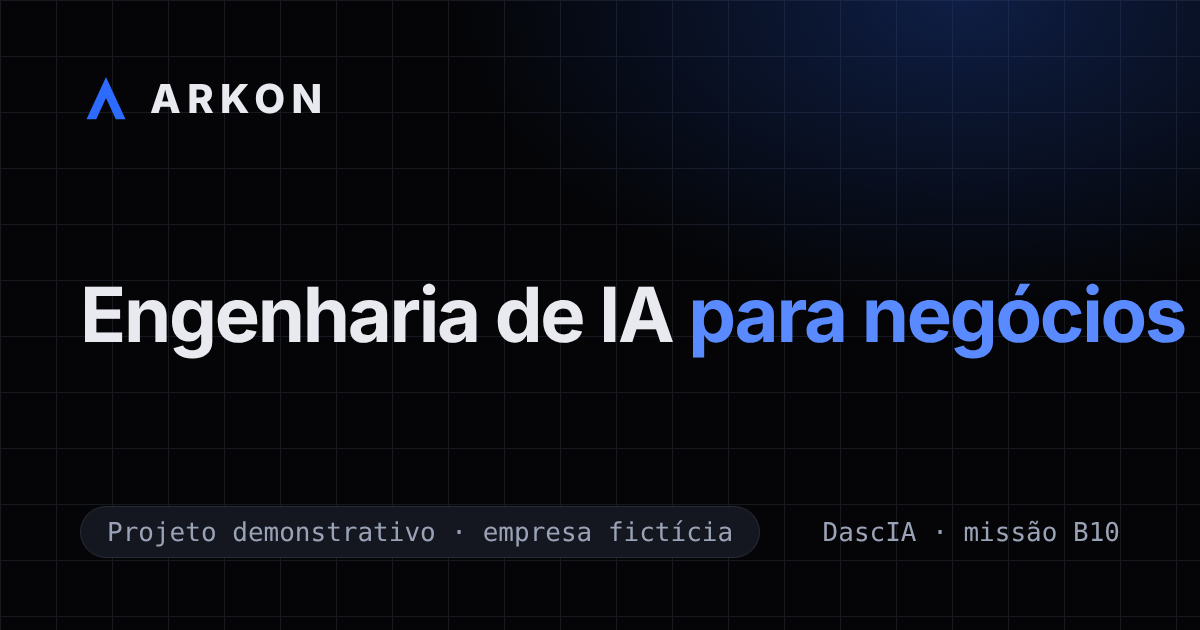
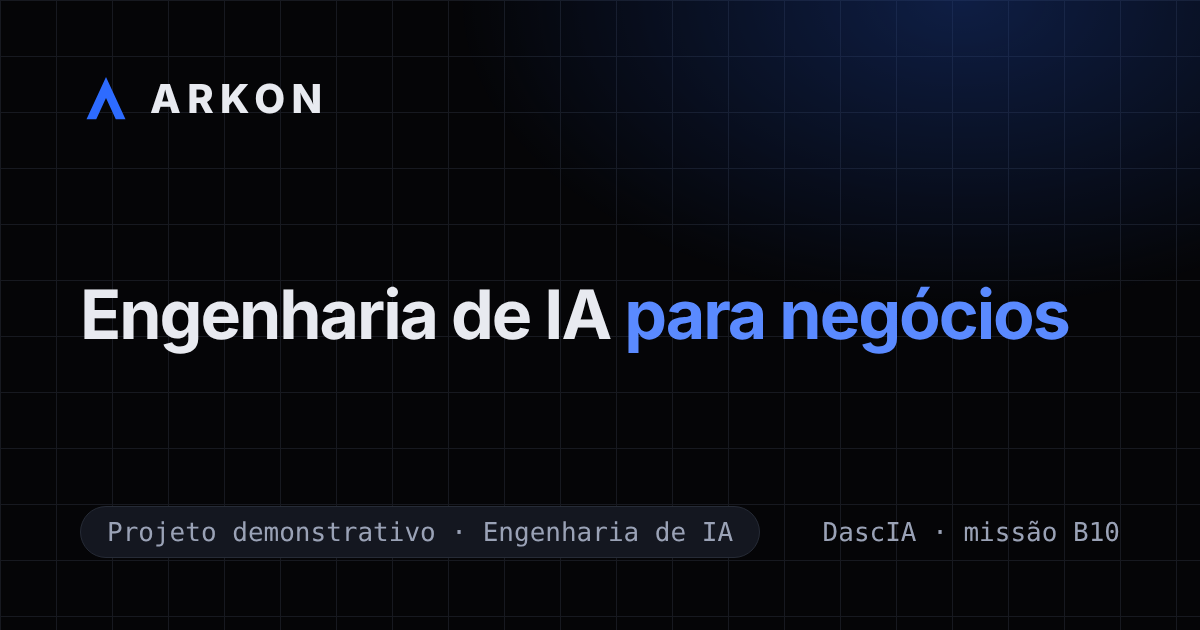
docs: ajusta identificação da ARKON como marca em desenvolvimento
A ARKON deixa de ser descrita como empresa fictícia. A landing page é que
é identificada como projeto demonstrativo e educacional.

- badge do hero: "Projeto demonstrativo · Engenharia de IA"
- revisão de meta description, Open Graph, JSON-LD, aviso, rodapé,
  README.md e CLAUDE.md
- imagem Open Graph regenerada com o novo texto

Claude-Session: https://claude.ai/code/session_018xfbFdb1QdB87zMLBuD6aB

Changed region(s): [[0.0617, 0.4524, 0.9867, 0.573], [0.4008, 0.8143, 0.6167, 0.8746]]

diff --git a/index.html b/index.html
@@ -4,7 +4,7 @@
   <meta charset="utf-8">
   <meta name="viewport" content="width=device-width, initial-scale=1">
   <title>ARKON | Engenharia de IA para negócios (demo)</title>
-  <meta name="description" content="Landing page demonstrativa da ARKON, empresa fictícia de Engenharia de IA: agentes, automações e sistemas inteligentes. Projeto educacional DascIA.">
+  <meta name="description" content="Landing page demonstrativa da ARKON, marca de Engenharia de IA para empresas: agentes, automações e sistemas inteligentes. Projeto educacional DascIA.">
   <meta name="color-scheme" content="dark">
   <meta name="theme-color" content="#050507">
   <link rel="canonical" href="https://dascia-missao-b10.pages.dev/">
@@ -12,7 +12,7 @@
   <meta property="og:type" content="website">
   <meta property="og:locale" content="pt_BR">
   <meta property="og:title" content="ARKON | Engenharia de IA para negócios (demo)">
-  <meta property="og:description" content="Landing page demonstrativa de uma empresa fictícia de Engenharia de IA. Projeto educacional DascIA.">
+  <meta property="og:description" content="Landing page demonstrativa da ARKON, marca de Engenharia de IA para empresas. Projeto educacional DascIA.">
   <meta property="og:url" content="https://dascia-missao-b10.pages.dev/">
   <meta property="og:image" content="https://dascia-missao-b10.pages.dev/assets/img/og-image.png">
   <meta property="og:image:width" content="1200">
@@ -25,7 +25,7 @@
   <link rel="stylesheet" href="/assets/css/components.css">
   <link rel="stylesheet" href="/assets/css/sections.css">
   <script src="/assets/js/main.js"></script>
-  <script type="application/ld+json">{"@context":"https://schema.org","@type":"WebSite","name":"ARKON (projeto demonstrativo)","description":"Landing page demonstrativa de uma empresa fictícia de Engenharia de IA. Projeto educacional DascIA.","url":"https://dascia-missao-b10.pages.dev/","inLanguage":"pt-BR"}</script>
+  <script type="application/ld+json">{"@context":"https://schema.org","@type":"WebSite","name":"ARKON (projeto demonstrativo)","description":"Landing page demonstrativa da ARKON, marca de Engenharia de IA para empresas. Projeto educacional DascIA.","url":"https://dascia-missao-b10.pages.dev/","inLanguage":"pt-BR"}</script>
 </head>
 <body>
   <a class="skip-link" href="#conteudo">Pular para o conteúdo</a>
@@ -53,7 +53,7 @@
     <section class="hero" id="topo">
       <div class="container hero__grid">
         <div class="hero__copy">
-          <p class="badge">Projeto demonstrativo · empresa fictícia</p>
+          <p class="badge">Projeto demonstrativo · Engenharia de IA</p>
           <p class="eyebrow">Engenharia de IA para negócios</p>
           <h1>Inteligência artificial que <span class="text-accent">trabalha</span> no seu negócio.</h1>
           <p class="lead">A ARKON projeta agentes, automações e sistemas inteligentes que se conectam às ferramentas que a sua empresa já usa.</p>
@@ -89,7 +89,7 @@
           <li class="card reveal"><span class="icon" aria-hidden="true"><svg viewBox="0 0 24 24" fill="none" stroke="currentColor" stroke-width="1.8" stroke-linecap="round" stroke-linejoin="round"><rect x="6" y="6" width="12" height="12" rx="2"/><path d="M9 2v4M15 2v4M9 18v4M15 18v4M2 9h4M2 15h4M18 9h4M18 15h4"/></svg></span><h3>Engenharia, não improviso</h3><p>Testes, monitoramento e arquitetura para IA confiável em produção.</p></li>
           <li class="card reveal"><span class="icon" aria-hidden="true"><svg viewBox="0 0 24 24" fill="none" stroke="currentColor" stroke-width="1.8" stroke-linecap="round" stroke-linejoin="round"><circle cx="9" cy="8" r="3.5"/><path d="M2 20c0-3.3 3.1-6 7-6s7 2.7 7 6M17 5a3.5 3.5 0 0 1 0 6M22 20c0-2.5-1.7-4.6-4-5.5"/></svg></span><h3>Parceria contínua</h3><p>Acompanhamos a evolução da solução junto com o seu time.</p></li>
         </ul>
-        <p class="notice reveal"><strong>Projeto demonstrativo.</strong> A ARKON é uma empresa fictícia criada para a formação em Engenharia de IA da DascIA. Os textos descrevem tipos de solução de forma ilustrativa e não representam serviços, clientes ou resultados reais.</p>
+        <p class="notice reveal"><strong>Projeto demonstrativo.</strong> Esta landing page foi desenvolvida na Formação em Engenharia de IA da DascIA para apresentar a marca ARKON, que está em desenvolvimento. Os textos descrevem tipos de solução de forma ilustrativa e não representam serviços, clientes ou resultados reais.</p>
       </div>
     </section>
 
@@ -158,7 +158,7 @@
           <h2>Vamos construir a IA do seu negócio?</h2>
           <p class="lead">Conte seu desafio e desenhamos juntos o primeiro projeto.</p>
           <button class="btn btn--primary" type="button" aria-disabled="true" aria-describedby="cta-note">Agendar conversa</button>
-          <p class="disclaimer" id="cta-note">Página demonstrativa: este botão não envia mensagens nem coleta dados. Em um projeto real, aqui ficaria o canal oficial de contato da empresa.</p>
+          <p class="disclaimer" id="cta-note">Página demonstrativa: este botão não envia mensagens nem coleta dados. Em uma versão final, aqui ficaria o canal oficial de contato.</p>
         </div>
       </div>
     </section>
@@ -166,7 +166,7 @@
 
   <footer class="footer">
     <div class="container footer__inner">
-      <p>© <span id="year">2026</span> ARKON. Projeto educacional da formação em Engenharia de IA na DascIA (missão B10). Empresa fictícia.</p>
+      <p>© <span id="year">2026</span> ARKON. Landing page demonstrativa e educacional, desenvolvida na Formação em Engenharia de IA da DascIA (missão B10).</p>
       <nav class="footer__links" aria-label="Rodapé">
         <a href="#sobre">Empresa</a><a href="#agentes">Agentes</a><a href="#integracoes">Integrações</a><a href="#contato">Contato</a>
       </nav>

diff --git a/README.md b/README.md
@@ -1,9 +1,9 @@
 # dascia-missao-b10 · Landing page ARKON
 
-Landing page demonstrativa da **ARKON**, empresa fictícia de Engenharia de IA para negócios.
+Landing page demonstrativa da **ARKON**, marca em desenvolvimento voltada à Engenharia de IA para empresas.
 Projeto educacional da formação em Engenharia de IA na **DascIA** (missão B10).
 
-> **Aviso:** a ARKON é uma empresa fictícia. Textos, serviços e a simulação do terminal são ilustrativos. O botão de contato é apenas demonstrativo: não há e-mail, formulário nem coleta de dados, e nenhuma credencial no projeto.
+> **Aviso:** a ARKON é uma marca em desenvolvimento; a landing page é o projeto demonstrativo e educacional. Textos, serviços e a simulação do terminal são ilustrativos. O botão de contato é apenas demonstrativo: não há e-mail, formulário nem coleta de dados, e nenhuma credencial no projeto.
 
 ## Stack
 HTML5, CSS3 e JavaScript puro. Sem frameworks, sem build, sem dependências.
